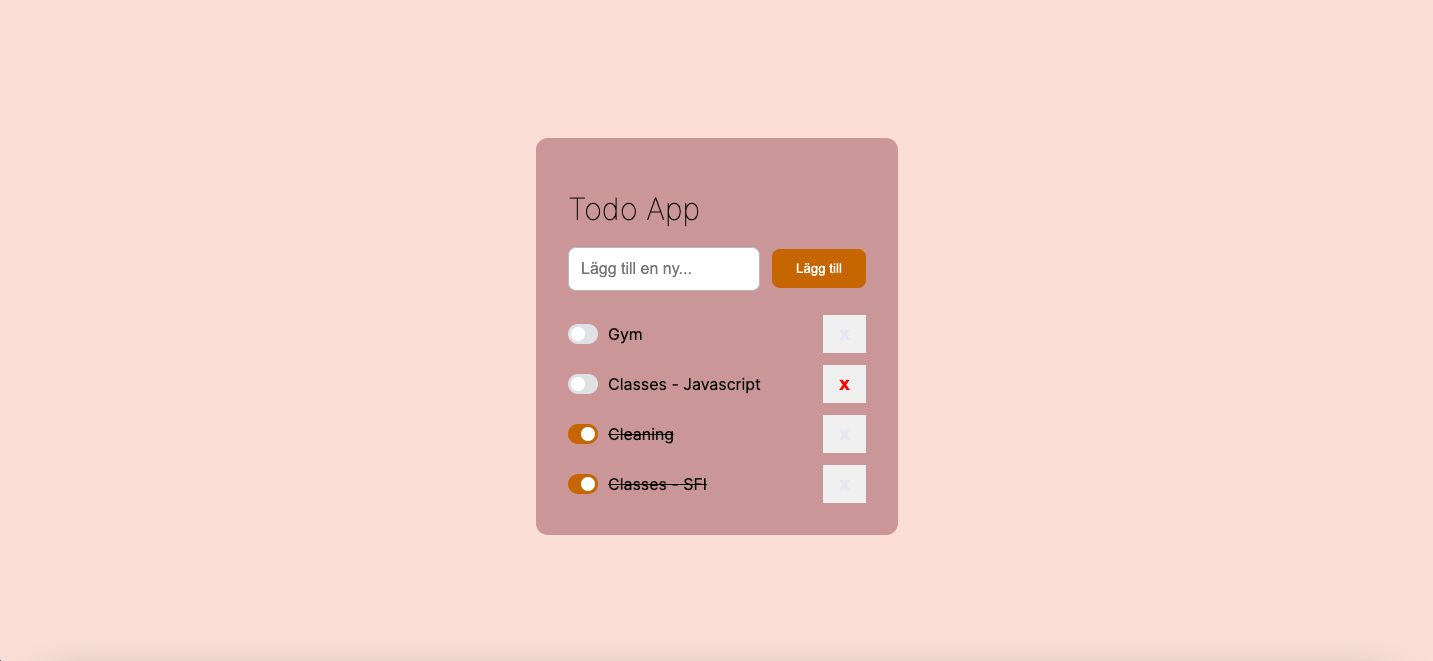
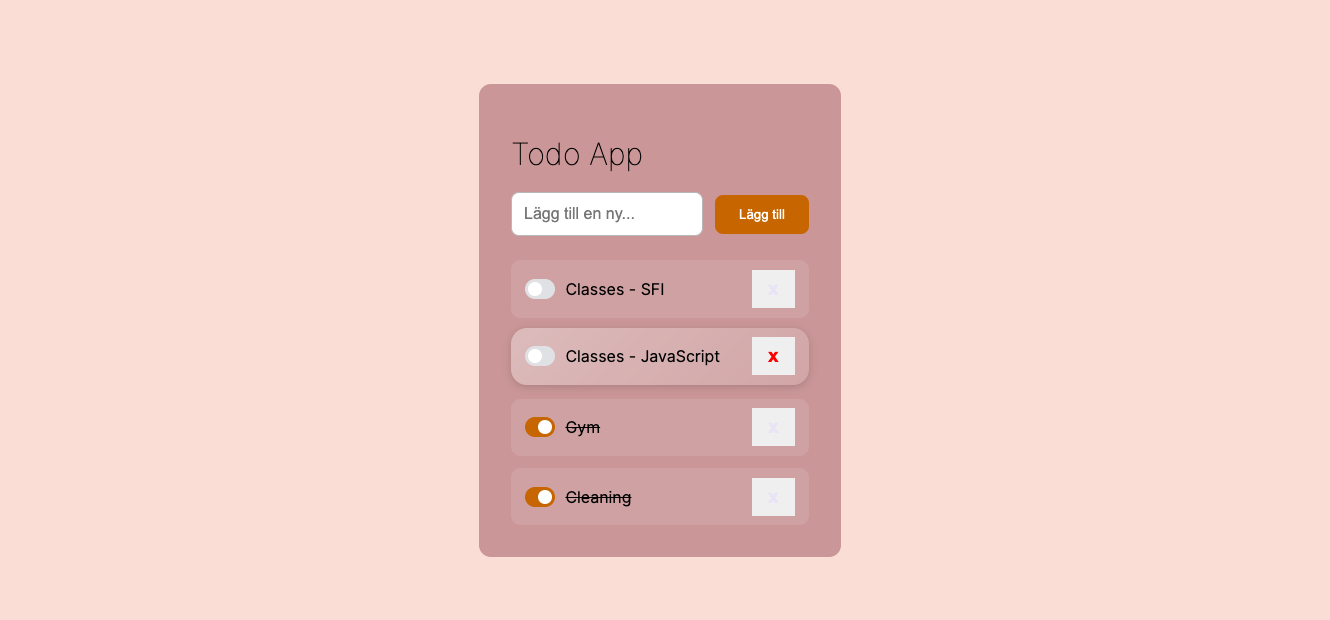
Added changes in css to highlight the raw

Changed region(s): [[0.3391, 0.1226, 0.6474, 0.9194]]

diff --git a/ToDo-App.css b/ToDo-App.css
@@ -7,12 +7,12 @@ body {
     justify-content: center;
     align-items: center;
     min-height: 100vh;
-    background-color: rgb(241, 245, 248);
+    background-color: #f5dfd6;
     font-family: "inter", sans-serif;
 }
 
 #todo-app {
-    background-color: rgb(237, 223, 223);
+    background-color: rgb(194, 153, 153);
     padding: 2rem;
     border-radius: 0.75rem;
     max-width: 450px;
@@ -57,19 +57,35 @@ body {
 }
 
 #todo-list {
-    list-style: none;
-    padding: 0;
-    margin: 0;
-    display: flex;
-    flex-direction: column;
-    gap: 0.75rem;
+  list-style: none;
+  padding: 0;
+  margin: 0;
+  display: flex;
+  flex-direction: column;
+  gap: 0.75rem;
 }
+
 #todo-list li {
-    display: flex;
-    justify-content: space-between;
-    align-items: center;
-    
-    
+  display: flex;
+  justify-content: space-between;
+  align-items: center;
+  padding: 0.6rem 0.9rem;
+  border-radius: 0.6rem;
+  transition: all 0.25s ease;
+  background: rgba(255, 255, 255, 0.1); /* subtle base */
+  backdrop-filter: blur(2px);
+}
+
+/* Hover effect for entire row */
+#todo-list li:hover {
+  background: linear-gradient(
+    135deg,
+    rgba(255, 255, 255, 0.35),
+    rgba(255, 255, 255, 0.15)
+  );
+  transform: translateY(-2px);
+  box-shadow: 0 2px 8px rgba(0, 0, 0, 0.15);
+  border-radius: 1rem;
 }
 
 .delete-button {
